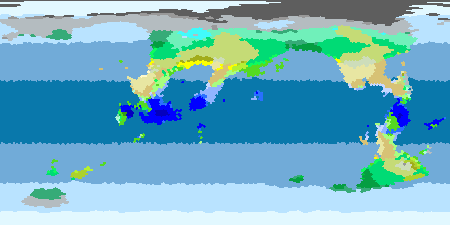
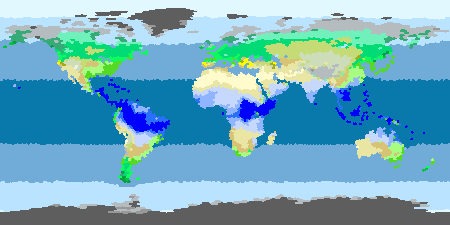
before tweaking land temp inertia

diff --git a/planet/src/main/kotlin/dev/biserman/planet/gui/ClimateCalibrationControls.kt b/planet/src/main/kotlin/dev/biserman/planet/gui/ClimateCalibrationControls.kt
@@ -30,6 +30,10 @@ class ClimateCalibrationControls(private val gui: Gui) {
             ClimateRuntimeConfig.orbitalEccentricity = it
             String.format("%.3f", it)
         }
+        bindSlider("PeriapsisSlider", "PeriapsisValue", ClimateRuntimeConfig.periapsis) {
+            ClimateRuntimeConfig.periapsis = it
+            "${formatSignedDay(it)} (${seasonForPeriapsis(it)})"
+        }
         bindSignedSlider("DistanceSlider", "DistanceValue", ClimateRuntimeConfig.distanceToStar) {
             ClimateRuntimeConfig.distanceToStar = it
         }
@@ -93,6 +97,7 @@ class ClimateCalibrationControls(private val gui: Gui) {
     private fun syncControlsToConfig() {
         slider("AxialTiltSlider").value = ClimateRuntimeConfig.axialTiltDegrees
         slider("EccentricitySlider").value = ClimateRuntimeConfig.orbitalEccentricity
+        slider("PeriapsisSlider").value = ClimateRuntimeConfig.periapsis
         slider("DistanceSlider").value = ClimateRuntimeConfig.distanceToStar
         slider("GreenhouseSlider").value = ClimateRuntimeConfig.greenhouseEffect
         slider("MoistureSlider").value = ClimateRuntimeConfig.moisture
@@ -107,4 +112,19 @@ class ClimateCalibrationControls(private val gui: Gui) {
 
     private fun formatHalfDegree(value: Double): String =
         if (value % 1.0 == 0.0) value.roundToInt().toString() else String.format("%.1f", value)
+
+    private fun formatSignedDay(value: Double): String =
+        if (value >= 0) "+${value.roundToInt()} d" else "${value.roundToInt()} d"
+
+    private fun seasonForPeriapsis(offset: Double): String {
+        // Insolation reaches its orbital maximum when cos(...) == 1:
+        // dayOfYear + periapsis == 0 (mod yearLength).
+        val day = ((-offset) % 365.242 + 365.242) % 365.242
+        return when (day) {
+            in 80.0..<172.0 -> "spring"
+            in 172.0..<266.0 -> "summer"
+            in 266.0..<355.0 -> "autumn"
+            else -> "winter"
+        }
+    }
 }

diff --git a/planet/src/main/kotlin/dev/biserman/planet/planet/climate/ClimateSimulation.kt b/planet/src/main/kotlin/dev/biserman/planet/planet/climate/ClimateSimulation.kt
@@ -72,6 +72,8 @@ import dev.biserman.planet.planet.climate.ClimateSimulationGlobals.itczMoistureM
 import dev.biserman.planet.planet.climate.ClimateSimulationGlobals.itczMoistureScalar
 import dev.biserman.planet.planet.climate.ClimateSimulationGlobals.itczPathfindingContinentialityWeight
 import dev.biserman.planet.planet.climate.ClimateSimulationGlobals.itczPathfindingNowVsAnnualInsolationLerp
+import dev.biserman.planet.planet.climate.ClimateSimulationGlobals.landNowVsAnnualInsolationLerp
+import dev.biserman.planet.planet.climate.ClimateSimulationGlobals.landNowVsAnnualInsolationLerpPow
 import dev.biserman.planet.planet.climate.ClimateSimulationGlobals.landPrecipitationScalar
 import dev.biserman.planet.planet.climate.ClimateSimulationGlobals.maxMoistureCoolingLerp
 import dev.biserman.planet.planet.climate.ClimateSimulationGlobals.maxMoistureForCooling
@@ -489,7 +491,7 @@ object ClimateSimulation {
             val effectiveCoolCurrentTemperatureDistance =
                 coolCurrentTemperatureDistance * ClimateRuntimeConfig.oceanCurrentDistanceScale
             val localBaseTemperature =
-                baseTemperature + greenhouseOffset + insolation * landInsolationScale
+                baseTemperature + greenhouseOffset + lerp(insolation, annualInsolation.average(), landNowVsAnnualInsolationLerp).pow(landNowVsAnnualInsolationLerpPow) * landInsolationScale
 
             val oceanCurrentContinentialityScalar = 1 / maxOceanCurrentTemperatureContinentiality
             val oceanCurrentContinentialityFactor = if (continentiality >= 0) 1.0 else {

diff --git a/planet/src/main/kotlin/dev/biserman/planet/planet/climate/Insolation.kt b/planet/src/main/kotlin/dev/biserman/planet/planet/climate/Insolation.kt
@@ -2,7 +2,6 @@ package dev.biserman.planet.planet.climate
 
 import dev.biserman.planet.planet.climate.ClimateSimulationGlobals.northSpringEquinox
 import dev.biserman.planet.planet.climate.ClimateSimulationGlobals.opticalDepthConstant
-import dev.biserman.planet.planet.climate.ClimateSimulationGlobals.periapsis
 import dev.biserman.planet.planet.climate.ClimateSimulationGlobals.solarConstant
 import dev.biserman.planet.planet.climate.ClimateSimulationGlobals.yearLength
 import dev.biserman.planet.utils.UtilityExtensions.degToRad
@@ -13,7 +12,7 @@ object Insolation {
     // Earth–Sun distance correction
     fun eccentricityFactor(dayOfYear: Double): Double {
         return 1.0 + ClimateRuntimeConfig.orbitalEccentricity * 2 *
-                cos(2.0 * Math.PI * (dayOfYear + periapsis) / yearLength)
+                cos(2.0 * Math.PI * (dayOfYear + ClimateRuntimeConfig.periapsis) / yearLength)
     }
 
     // Solar declination (radians, Cooper’s formula)

diff --git a/planet/src/main/kotlin/dev/biserman/planet/planet/climate/ClimateRuntimeConfig.kt b/planet/src/main/kotlin/dev/biserman/planet/planet/climate/ClimateRuntimeConfig.kt
@@ -22,6 +22,13 @@ object ClimateRuntimeConfig {
                 revision++
             }
         }
+    var periapsis = 3.5
+        set(value) {
+            if (field != value) {
+                field = value
+                revision++
+            }
+        }
     var distanceToStar = 0.0
         set(value) {
             if (field != value) {
@@ -113,6 +120,7 @@ object ClimateRuntimeConfig {
     fun resetToDefaults() {
         axialTiltDegrees = defaultAxialTiltDegrees
         orbitalEccentricity = defaultOrbitalEccentricity
+        periapsis = 3.5
         distanceToStar = 0.0
         greenhouseEffect = 0.0
         moisture = 0.0

diff --git a/planet/src/main/kotlin/dev/biserman/planet/planet/climate/ClimateSimulationGlobals.kt b/planet/src/main/kotlin/dev/biserman/planet/planet/climate/ClimateSimulationGlobals.kt
@@ -79,6 +79,9 @@ object ClimateSimulationGlobals {
 
     // TEMPERATURE
 
+    var landNowVsAnnualInsolationLerp = 0.0
+    var landNowVsAnnualInsolationLerpPow = 1.0
+
     var baseTemperature = 245.0 // °K, base temperature of land
     var baseTemperatureInsolationScalar = 74.0 // °K, increasing by 1°K ≈ 0.9°K increase in tropical summer temperatures
 
